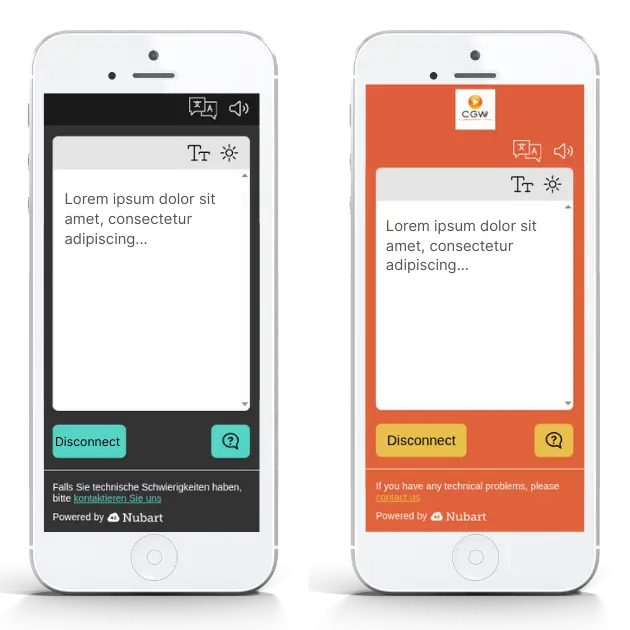
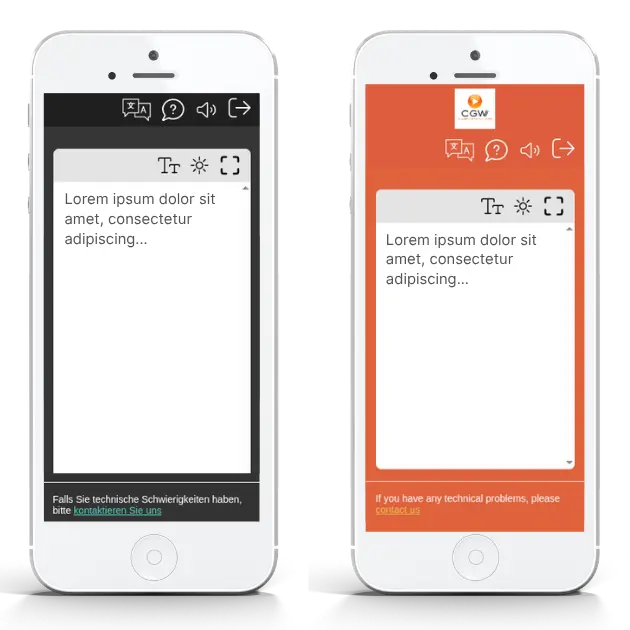
Translate comparison

Changed region(s): [[0.573, 0.1206, 0.9349, 0.8444], [0.0603, 0.1508, 0.4222, 0.8444]]

diff --git a/es/traduccion-simultanea-ia/nubart-translate-comparativa.html b/es/traduccion-simultanea-ia/nubart-translate-comparativa.html
@@ -49,11 +49,11 @@
             ],
             "articleSection": [
                 "De un vistazo",
-                "Diseñado para adaptarse a cualquier tipo de evento",
                 "El precio no depende del número de asistentes",
                 "Los eventos confidenciales siguen siendo confidenciales",
                 "Procesamiento de datos en la UE por defecto",
                 "Un único código QR para todos sus eventos",
+                "Diseñado para adaptarse a cualquier tipo de evento",
                 "Su logotipo y sus colores, incluidos de serie",
                 "No necesita crear un glosario: bastan sus propios documentos"
             ],
@@ -526,31 +526,43 @@ j=d.createElement(s),dl=l!='dataLayer'?'&l='+l:'';j.async=true;j.src=
                     </div>
                     <h2 id="try-it-yourself">Pruébelo usted mismo antes de seguir leyendo</h2>
 
-                    <p>Nubart TRANSLATE ofrece una <a href="https://forms.zohopublic.eu/rosasala/form/NubartTRANSLATERequestaTrial/formperma/7ghj0xlQ-TcTGpfqs2Vd1V3i96nQQNddJh5xIrumeJ4?zf_lang=es" target="_blank" onclick="zforms_open_window(this.href, 648, 700); return false">prueba gratuita de 30 minutos</a> en condiciones reales, sin necesidad de hablar con un comercial. Esos 30 minutos pueden repartirse entre tantas sesiones y días como desee. Lo único que no incluye la prueba es su propia imagen de marca y diseño, así como la preparación terminológica que normalmente realizamos a partir de la documentación de su evento. Todo lo demás funciona exactamente igual que el día del evento.</p>
+                    <p>Nubart TRANSLATE ofrece una <a href="https://forms.zohopublic.eu/rosasala/form/NubartTRANSLATERequestaTrial/formperma/7ghj0xlQ-TcTGpfqs2Vd1V3i96nQQNddJh5xIrumeJ4?zf_lang=es" target="_blank" onclick="zforms_open_window(this.href, 648, 700); return false">prueba gratuita de 30 minutos</a> en condiciones reales, sin necesidad de hablar con un comercial. Puede distribuir esos 30 minutos entre tantas sesiones y días como desee. Lo único que no incluye la prueba es su propia imagen de marca y diseño, así como la preparación terminológica que normalmente realizamos a partir de la documentación de su evento. Todo lo demás funciona exactamente igual que el día del evento.</p>
 
-                    <h2 id="event-structure">1. Diseñado para adaptarse a cualquier tipo de evento</h2>
-
-                    <p>El código QR de Nubart TRANSLATE funciona como un contenedor que se adapta a la estructura del evento, en lugar de estar ligado a una única sesión con una configuración predefinida. En una conferencia con varias salas, Nubart crea un botón dentro de ese mismo contenedor para cada sala, con el nombre que mejor se adapte al evento. La configuración para los ponentes también se adapta a las necesidades reales: una sala con un único idioma hablado puede funcionar con una sola cuenta de ponente. Si en una misma sala intervienen varios ponentes que alternan idiomas, puede utilizarse una cuenta compartida cambiando el idioma según sea necesario —por el propio ponente o por el equipo audiovisual—, o bien asignar una cuenta independiente a cada ponente. El equipo de Nubart estará encantado de asesorarle sobre la configuración más adecuada para su evento. En cambio, muchas plataformas competidoras vinculan una sesión a un único código QR y, con frecuencia, a un solo idioma hablado, lo que deja mucho menos margen de adaptación una vez que el evento ya está en marcha.</p>
-
-                    <h2 id="pricing">2. El precio no depende del número de asistentes</h2>
+                    <h2 id="pricing">1. El precio no depende del número de asistentes</h2>
 
                     <p>Nubart TRANSLATE cobra en función del tiempo durante el que los canales de traducción están activos, no del número de personas que escuchan. La <a href="index.html#pricing">calculadora de precios de nuestro sitio web</a> permite estimar el coste del evento antes de contratar el servicio, sin necesidad de solicitar un presupuesto personalizado.</p>
 
-                    <h2 id="confidentiality">3. Los eventos confidenciales siguen siendo confidenciales</h2>
+                    <h2 id="confidentiality">2. Los eventos confidenciales siguen siendo confidenciales</h2>
 
                     <p>Como función opcional para reuniones de consejos de administración, presentaciones a inversores y otras sesiones confidenciales, Nubart TRANSLATE puede vincular el acceso de los asistentes al primer dispositivo que activa el código QR. De este modo, un enlace reenviado no funcionará en un segundo dispositivo, sin necesidad de registro personal. En cambio, muchos otros sistemas utilizan un código QR o un código de acceso compartido que puede reenviarse como cualquier otro enlace. Explicamos este mecanismo con más detalle en un <a href="brecha-seguridad-qr-traduccion-ia.html">artículo específico</a>.</p>
 
-                    <h2 id="eu-based">4. Procesamiento de datos en la UE por defecto</h2>
+                    <h2 id="eu-based">3. Procesamiento de datos en la UE por defecto</h2>
 
                     <p>Nubart TRANSLATE está desarrollado y operado por empresas con sede en la Unión Europea, y el flujo principal de procesamiento —reconocimiento de voz, traducción y síntesis de voz— se ejecuta por defecto en infraestructura ubicada en la UE para la gran mayoría de los idiomas compatibles. Además, los clientes pueden elegir la política de conservación de datos para cada evento: eliminación inmediata, conservación durante 30 días o conservación indefinida con un uso contractualmente limitado. Tener la sede en Europa no es lo mismo que procesar los datos dentro de la UE, que suele ser el aspecto realmente relevante para los equipos de compras y de cumplimiento normativo.</p>
 
-                    <h2 id="reusable-qr">5. Un único código QR para todos sus eventos</h2>
+                    <h2 id="reusable-qr">4. Un único código QR para todos sus eventos</h2>
 
                     <p>El código QR para los asistentes está vinculado a la cuenta del cliente y no se genera de nuevo para cada evento. El mismo código puede reutilizarse una y otra vez en todos los eventos futuros, sin necesidad de volver a imprimirlo ni distribuirlo. Es una ventaja especialmente útil para quienes organizan eventos periódicos. En cambio, muchas otras plataformas generan un código QR nuevo para cada evento.</p>
+
+                    <h2 id="event-structure">5. Diseñado para adaptarse a cualquier tipo de evento</h2>
+
+                    <p>El código QR de Nubart TRANSLATE funciona como un contenedor que se adapta a la estructura del evento, en lugar de estar ligado a una única sesión con una configuración predefinida. En una conferencia con varias salas, Nubart crea un botón dentro de ese mismo contenedor para cada sala, con el nombre que mejor se adapte al evento. La configuración para los ponentes también se adapta a las necesidades reales: una sala con un único idioma hablado puede funcionar con una sola cuenta de ponente. Si en una misma sala intervienen varios ponentes que alternan idiomas, puede utilizarse una cuenta compartida cambiando el idioma según sea necesario —por el propio ponente o por el equipo audiovisual—, o bien asignar una cuenta independiente a cada ponente. El equipo de Nubart estará encantado de asesorarle sobre la configuración más adecuada para su evento. En cambio, muchas plataformas competidoras vinculan una sesión a un único código QR y, con frecuencia, a un solo idioma hablado, lo que deja mucho menos margen de adaptación una vez que el evento ya está en marcha.</p>
+
+                    <figure class="figure text-center">
+                        <img src="../../assets/img/translate/custom-layout-translate-two-rooms.webp" class="figure-img img-fluid rounded"
+                             style="max-width: 410px; width: 100%;"
+                             alt="Dos pantallas de smartphone una junto a la otra: a la izquierda, la interfaz donde los oyentes eligen su sala; a la derecha, la siguiente pantalla una vez dentro de esa sala.">
+                    </figure>
 
                     <h2 id="branding">6. Su logotipo y sus colores, incluidos de serie</h2>
 
                     <p>La personalización de la interfaz de los asistentes con el logotipo y los colores de su evento está incluida en Nubart TRANSLATE sin coste adicional. Es una función estándar que el propio cliente puede configurar. Según nuestro análisis del mercado, este nivel de personalización incluida y autogestionable es poco habitual: cuando otros proveedores ofrecen personalización de la interfaz, normalmente lo hacen como un servicio adicional de pago gestionado por un equipo de servicios profesionales, y no como una opción que el cliente pueda configurar directamente.</p>
+
+                    <figure class="figure text-center">
+                        <img src="../../assets/img/translate/custom-layout-translate.webp" class="figure-img img-fluid rounded"
+                             style="max-width: 410px; width: 100%;"
+                             alt="Dos pantallas de smartphone una junto a la otra, mostrando dos diseños personalizados diferentes de Nubart TRANSLATE.">
+                    </figure>
 
                     <h2 id="glossary">7. No necesita crear un glosario: bastan sus propios documentos</h2>
 

diff --git a/de/simultan-uebersetzung-ki/nubart-translate-anbietervergleich.html b/de/simultan-uebersetzung-ki/nubart-translate-anbietervergleich.html
@@ -49,11 +49,11 @@
             ],
             "articleSection": [
                 "Auf einen Blick",
-                "Für jede Veranstaltungsstruktur geeignet",
                 "Die Preise hängen nicht von der Anzahl der Zuhörer ab",
                 "Vertrauliche Veranstaltungen bleiben vertraulich",
                 "Standardmäßig Datenverarbeitung in der EU",
                 "Ein QR-Code für alle Ihre Veranstaltungen",
+                "Für jede Veranstaltungsstruktur geeignet",
                 "Ihr Logo und Ihre Farben – ohne Aufpreis",
                 "Kein Glossar erstellen – Ihre Dokumente genügen"
             ],
@@ -533,29 +533,41 @@ j=d.createElement(s),dl=l!='dataLayer'?'&l='+l:'';j.async=true;j.src=
 
                     <p>Nubart TRANSLATE bietet eine <a href="https://forms.zohopublic.eu/rosasala/form/NubartTRANSLATERequestaTrial/formperma/7ghj0xlQ-TcTGpfqs2Vd1V3i96nQQNddJh5xIrumeJ4?zf_lang=de" target="_blank" onclick="zforms_open_window(this.href, 648, 700); return false">kostenlose 30-minütige Testversion</a> unter realen Bedingungen – ganz ohne Vertriebsgespräch. Die 30 Minuten können beliebig auf mehrere Sitzungen und Tage verteilt werden. Lediglich Ihr individuelles Branding und Layout sowie die Terminologievorbereitung auf Basis Ihrer Veranstaltungsunterlagen sind im Test nicht enthalten. Alles andere funktioniert genauso wie am Veranstaltungstag.</p>
 
-                    <h2 id="event-structure">1. Für jede Veranstaltungsstruktur geeignet</h2>
-
-                    <p>Der QR-Code von Nubart TRANSLATE funktioniert wie ein Container, der sich an die Struktur Ihrer Veranstaltung anpasst – statt an eine einzelne Sitzung mit vordefinierter Konfiguration gebunden zu sein. Bei einer Konferenz mit mehreren Räumen richtet Nubart innerhalb desselben Containers für jeden Raum eine eigene Schaltfläche ein, die nach Wunsch benannt werden kann. Auch die Einrichtung für Sprecher lässt sich flexibel anpassen: Ein einzelner Raum mit nur einer Vortragssprache kann über ein gemeinsames Sprecherkonto betrieben werden. Sprechen mehrere Referenten in unterschiedlichen Sprachen, kann entweder ein gemeinsames Konto genutzt werden, bei dem die Sprache bei Bedarf vom Sprecher oder der AV-Technik umgeschaltet wird, oder jeder Sprecher erhält ein eigenes Konto. Das Nubart-Team berät gerne, welche Konfiguration für Ihre Veranstaltung am sinnvollsten ist. Viele andere Plattformen verknüpfen dagegen eine Sitzung mit genau einem QR-Code und häufig auch mit nur einer Vortragssprache, wodurch während der laufenden Veranstaltung weniger Flexibilität besteht.</p>
-
-                    <h2 id="pricing">2. Die Preise hängen nicht von der Anzahl der Zuhörer ab</h2>
+                    <h2 id="pricing">1. Die Preise hängen nicht von der Anzahl der Zuhörer ab</h2>
 
                     <p>Nubart TRANSLATE berechnet die Kosten nach der Dauer der aktiven Übersetzungsstreams – nicht nach der Anzahl der Zuhörer. Mit dem <a href="index.html#pricing">Preisrechner auf unserer Website</a> können Kunden die voraussichtlichen Kosten ihrer Veranstaltung bereits vor der Buchung selbst berechnen, ohne ein individuelles Angebot anfordern zu müssen.</p>
 
-                    <h2 id="confidentiality">3. Vertrauliche Veranstaltungen bleiben vertraulich</h2>
+                    <h2 id="confidentiality">2. Vertrauliche Veranstaltungen bleiben vertraulich</h2>
 
                     <p>Als optionale Funktion für Vorstandssitzungen, Investoren-Meetings und andere vertrauliche Veranstaltungen kann Nubart TRANSLATE den Zuhörerzugang an das erste Gerät binden, mit dem ein QR-Code aktiviert wird. Ein weitergeleiteter Link funktioniert dadurch auf keinem zweiten Gerät – ganz ohne persönliche Registrierung. Viele andere Systeme arbeiten stattdessen mit einem gemeinsamen QR-Code oder Zugangscode, der sich wie jeder andere Link weiterleiten lässt. Wie diese Sicherheitsfunktion im Detail funktioniert, erläutern wir in einem <a href="qr-code-sicherheitsluecke-ki-dolmetschen.html">separaten Artikel</a>.</p>
 
-                    <h2 id="eu-based">4. Standardmäßig Datenverarbeitung in der EU</h2>
+                    <h2 id="eu-based">3. Standardmäßig Datenverarbeitung in der EU</h2>
 
                     <p>Nubart TRANSLATE wird von Unternehmen mit Hauptsitz in der EU entwickelt und betrieben. Die zentrale Verarbeitungskette – Spracherkennung, Übersetzung und Sprachsynthese – läuft für die überwiegende Mehrheit der unterstützten Sprachen standardmäßig auf Infrastruktur innerhalb der EU. Darüber hinaus können Kunden für jede Veranstaltung selbst festlegen, wie lange ihre Daten gespeichert werden: sofortige Löschung, 30 Tage oder unbegrenzte Aufbewahrung mit vertraglich klar geregelter Nutzung. Ein Unternehmenssitz in Europa ist nicht dasselbe wie eine Datenverarbeitung innerhalb der EU – und genau darauf achten viele Beschaffungs- und Compliance-Teams besonders.</p>
 
-                    <h2 id="reusable-qr">5. Ein QR-Code für alle Ihre Veranstaltungen</h2>
+                    <h2 id="reusable-qr">4. Ein QR-Code für alle Ihre Veranstaltungen</h2>
 
                     <p>Der QR-Code für Zuhörer ist mit dem Kundenkonto verknüpft und wird nicht für jede Veranstaltung neu erstellt. Derselbe QR-Code kann Jahr für Jahr für alle zukünftigen Veranstaltungen wiederverwendet werden, ohne dass etwas neu gedruckt oder verteilt werden muss. Das ist besonders praktisch für regelmäßig stattfindende Veranstaltungen. Viele andere Plattformen erzeugen dagegen für jede Veranstaltung einen neuen, ereignisspezifischen QR-Code.</p>
+
+                    <h2 id="event-structure">5. Für jede Veranstaltungsstruktur geeignet</h2>
+
+                    <p>Der QR-Code von Nubart TRANSLATE funktioniert wie ein Container, der sich an die Struktur Ihrer Veranstaltung anpasst – statt an eine einzelne Sitzung mit vordefinierter Konfiguration gebunden zu sein. Bei einer Konferenz mit mehreren Räumen richtet Nubart innerhalb desselben Containers für jeden Raum eine eigene Schaltfläche ein, die nach Wunsch benannt werden kann. Auch die Einrichtung für Sprecher lässt sich flexibel anpassen: Ein einzelner Raum mit nur einer Vortragssprache kann über ein gemeinsames Sprecherkonto betrieben werden. Sprechen mehrere Referenten in unterschiedlichen Sprachen, kann entweder ein gemeinsames Konto genutzt werden, bei dem die Sprache bei Bedarf vom Sprecher oder der AV-Technik umgeschaltet wird, oder jeder Sprecher erhält ein eigenes Konto. Das Nubart-Team berät gerne, welche Konfiguration für Ihre Veranstaltung am sinnvollsten ist. Viele andere Plattformen verknüpfen dagegen eine Sitzung mit genau einem QR-Code und häufig auch mit nur einer Vortragssprache, wodurch während der laufenden Veranstaltung weniger Flexibilität besteht.</p>
+
+                    <figure class="figure text-center">
+                        <img src="../../assets/img/translate/custom-layout-translate-two-rooms.webp" class="figure-img img-fluid rounded"
+                             style="max-width: 410px; width: 100%;"
+                             alt="Zwei Smartphone-Bildschirme nebeneinander: links die Oberfläche zur Raumauswahl für Zuhörer, rechts der nächste Bildschirm nach dem Betreten dieses Raums.">
+                    </figure>
 
                     <h2 id="branding">6. Ihr Logo und Ihre Farben – ohne Aufpreis</h2>
 
                     <p>Die Gestaltung der Benutzeroberfläche für Zuhörer im Erscheinungsbild Ihrer Veranstaltung – mit eigenem Logo und eigenen Farben – ist bei Nubart TRANSLATE ohne Aufpreis enthalten. Sie ist als Standardfunktion verfügbar und kann vom Kunden selbst eingerichtet werden. Nach unserer Marktanalyse ist dieses Maß an Branding zur Selbstkonfiguration eher ungewöhnlich: Wenn andere Anbieter überhaupt individuelles Branding anbieten, erfolgt dies meist als kostenpflichtige Zusatzleistung über ein Professional-Services-Team und nicht als Einstellung, die Kunden selbst vornehmen können.</p>
+
+                    <figure class="figure text-center">
+                        <img src="../../assets/img/translate/custom-layout-translate.webp" class="figure-img img-fluid rounded"
+                             style="max-width: 410px; width: 100%;"
+                             alt="Zwei Smartphone-Bildschirme nebeneinander mit zwei unterschiedlichen, individuell gestalteten Nubart-TRANSLATE-Layouts.">
+                    </figure>
 
                     <h2 id="glossary">7. Kein Glossar erstellen – Ihre Dokumente genügen</h2>
 

diff --git a/ai-simultaneous-interpretation/nubart-translate-comparison.html b/ai-simultaneous-interpretation/nubart-translate-comparison.html
@@ -49,11 +49,11 @@
             ],
             "articleSection": [
                 "At a Glance",
-                "Built to Fit Any Event Structure",
                 "Pricing Doesn't Depend on Audience Size",
                 "Confidential Events Stay Confidential",
                 "EU-Based by Default",
                 "One QR Code for Every Event",
+                "Built to Fit Any Event Structure",
                 "Your Logo and Colors, Included by Default",
                 "No Glossary to Build, Just Your Own Documents"
             ],
@@ -545,29 +545,41 @@ j=d.createElement(s),dl=l!='dataLayer'?'&l='+l:'';j.async=true;j.src=
 
                     <p>Nubart TRANSLATE offers a <a href="https://forms.zohopublic.eu/rosasala/form/NubartTRANSLATERequestaTrial/formperma/7ghj0xlQ-TcTGpfqs2Vd1V3i96nQQNddJh5xIrumeJ4" target="_blank" onclick="zforms_open_window(this.href, 648, 700); return false">free 30-minute trial</a> under real conditions, no sales call required, and those 30 minutes can be split across as many sessions as you like, over as many days as needed. The only things missing from the trial are your own branding and layout, and the terminology preparation we normally do from your event materials beforehand. Everything else works exactly as it would on the day of your event.</p>
 
-                    <h2 id="event-structure">1. Built to Fit Any Event Structure</h2>
-
-                    <p>Nubart TRANSLATE's QR code works as a container that adapts to the shape of the event, rather than a fixed session with one predefined setup. For a multi-room conference, Nubart sets up a button inside that same container for each room, named however suits the event. For speakers, the setup scales to whatever's actually needed: a single room with one shared language can run on a single speaker account, and a single room with several speakers switching between languages can use either one shared account with the language changed as needed, by the speaker or an AV technician, or a separate account per speaker. Nubart's team is happy to advise on which setup fits best, so the flexibility doesn't have to be figured out alone. Many competing platforms instead tie one session to one QR code, often built around a single spoken language at a time, which leaves less room to adapt once the event is underway.</p>
-
-                    <h2 id="pricing">2. Pricing Doesn't Depend on Audience Size</h2>
+                    <h2 id="pricing">1. Pricing Doesn't Depend on Audience Size</h2>
 
                     <p>Nubart TRANSLATE charges based on active translation stream time, not on how many people are listening. The <a href="../ai-simultaneous-interpretation/#pricing">pricing calculator on our website</a> lets customers check the expected cost for their own event before booking, without needing a custom quote.</p>
 
-                    <h2 id="confidentiality">3. Confidential Events Stay Confidential</h2>
+                    <h2 id="confidentiality">2. Confidential Events Stay Confidential</h2>
 
                     <p>As an optional feature for board meetings, investor briefings, and other confidential sessions, Nubart TRANSLATE can bind listener access to the first device that activates a QR code, so a forwarded link won't open on a second device, with no personal registration required. Many competing systems instead rely on a shared code or passcode that behaves like any other forwardable link. We cover how this works in more detail in a <a href="qr-code-security-gap-ai-interpretation.html">separate article</a>.</p>
 
-                    <h2 id="eu-based">4. EU-Based by Default</h2>
+                    <h2 id="eu-based">3. EU-Based by Default</h2>
 
                     <p>Nubart TRANSLATE is built and operated by EU-headquartered companies, and the core processing pipeline, covering speech recognition, translation, and voice synthesis, runs on EU-based infrastructure by default for the large majority of supported languages. Customers also choose their own data retention policy for each event: immediate deletion, 30 days, or indefinite with contractually limited use. Being headquartered in Europe isn't the same as processing data within the EU, which is the more concrete question for teams with strict procurement or compliance requirements.</p>
 
-                    <h2 id="reusable-qr">5. One QR Code for Every Event</h2>
+                    <h2 id="reusable-qr">4. One QR Code for Every Event</h2>
 
                     <p>The listener QR code is tied to the customer's account rather than generated fresh for each event. The same code works again for the next event, year after year, without reprinting or reissuing anything — a detail that matters the moment a customer runs the same event on a recurring basis. Many platforms instead generate a new, event-specific code every time.</p>
+
+                    <h2 id="event-structure">5. Built to Fit Any Event Structure</h2>
+
+                    <p>Nubart TRANSLATE's QR code works as a container that adapts to the shape of the event, rather than a fixed session with one predefined setup. For a multi-room conference, Nubart sets up a button inside that same container for each room, named however suits the event. For speakers, the setup scales to whatever's actually needed: a single room with one shared language can run on a single speaker account, and a single room with several speakers switching between languages can use either one shared account with the language changed as needed, by the speaker or an AV technician, or a separate account per speaker. Nubart's team is happy to advise on which setup fits best, so the flexibility doesn't have to be figured out alone. Many competing platforms instead tie one session to one QR code, often built around a single spoken language at a time, which leaves less room to adapt once the event is underway.</p>
+
+                    <figure class="figure text-center">
+                        <img src="../assets/img/translate/custom-layout-translate-two-rooms.webp" class="figure-img img-fluid rounded"
+                             style="max-width: 410px; width: 100%;"
+                             alt="Side-by-side comparison of two smartphone screens: on the left, the interface where listeners choose their room; on the right, the next screen once inside that room.">
+                    </figure>
 
                     <h2 id="branding">6. Your Logo and Colors, Included by Default</h2>
 
                     <p>Branding the listener interface with the event's own logo and colors is included at no extra cost with Nubart TRANSLATE, as a standard, self-serve setting rather than a paid upgrade. Among the providers we reviewed, this level of included, self-serve branding is uncommon: where competitors offer interface branding at all, it typically comes as a paid add-on delivered through a professional-services team, rather than something a customer configures directly.</p>
+
+                    <figure class="figure text-center">
+                        <img src="../assets/img/translate/custom-layout-translate.webp" class="figure-img img-fluid rounded"
+                             style="max-width: 410px; width: 100%;"
+                             alt="Side-by-side comparison of two smartphone screens showing two different custom-branded Nubart TRANSLATE layouts.">
+                    </figure>
 
                     <h2 id="glossary">7. No Glossary to Build, Just Your Own Documents</h2>
 
